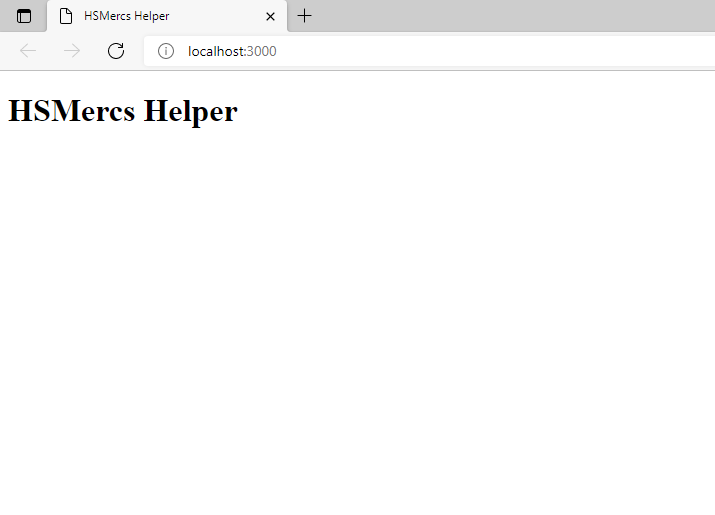
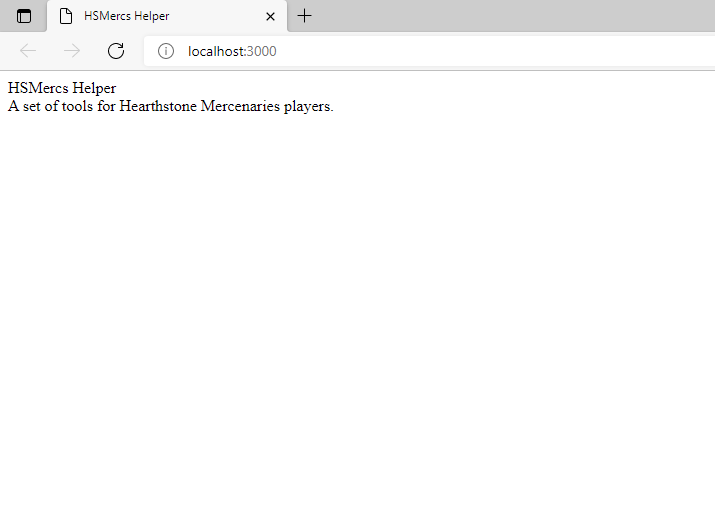
Backdating changes that I decided to make later in the tutorial.

Changed region(s): [[0.0, 0.1553, 0.4615, 0.2485]]

diff --git a/posts/2022/2022-01-06-hsmercs-from-the-beginning.md b/posts/2022/2022-01-06-hsmercs-from-the-beginning.md
@@ -120,7 +120,10 @@ We'll start by creating our first Vue component. By convention, we name the entr
 <script setup lang="ts"></script>
 
 <template>
-  <h1>HSMercs Helper</h1>
+  <header>
+    <div>HSMercs Helper</div>
+    <div>A set of tools for Hearthstone Mercenaries players.
+  </header>
 </template>
 ```
 
